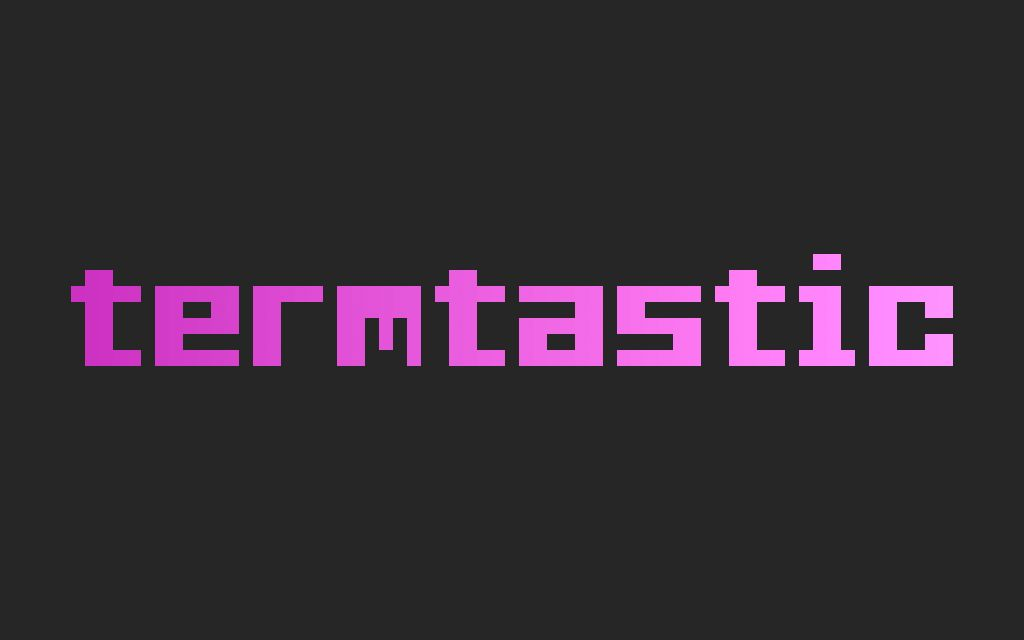
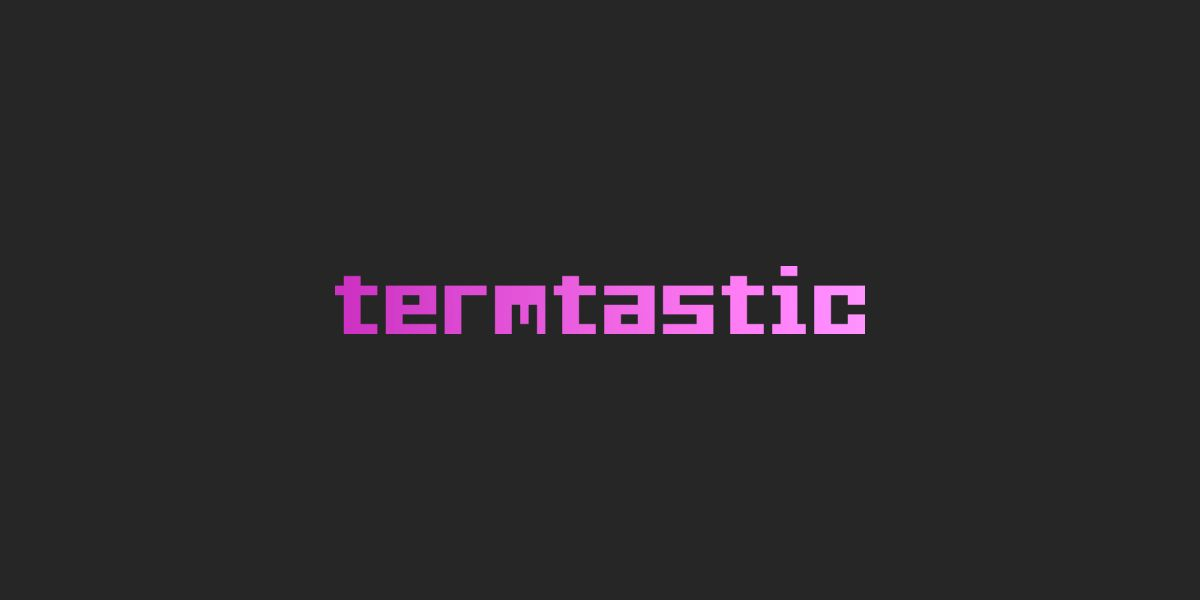
updated og:image

Changed region(s): [[0.0625, 0.39, 0.9375, 0.6]]

diff --git a/public/index.html b/public/index.html
@@ -12,7 +12,7 @@
   <meta name="theme-color" content="#1c1f20" media="(prefers-color-scheme: dark)">
   <meta property="og:title" content="termtastic">
   <meta property="og:description" content="Feature-rich handmade Meshtastic® console client written in Rust.">
-  <meta property="og:image" content="assets/og.jpg">
+  <meta property="og:image" content="assets/og.jpg?v=2">
   <script>
     // Apply the saved theme before first paint to avoid a flash.
     try { var t = localStorage.getItem('theme'); if (t === 'light' || t === 'dark') document.documentElement.setAttribute('data-theme', t); } catch (e) { }
